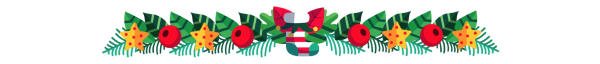
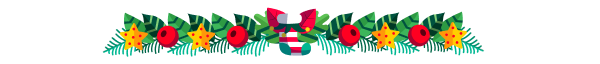
update separator

diff --git a/website/src/theme/MDXComponents/index.tsx b/website/src/theme/MDXComponents/index.tsx
@@ -43,7 +43,14 @@ export default {
         <img
           className="separator"
           src={imgUrl}
-          style={{ maxWidth: 500, margin: "0 auto" }}
+          width="600"
+          height="64"
+          style={{
+            width: "100%",
+            maxWidth: 600,
+            margin: "0 auto",
+            objectFit: "contain",
+          }}
         />
       </div>
     );
